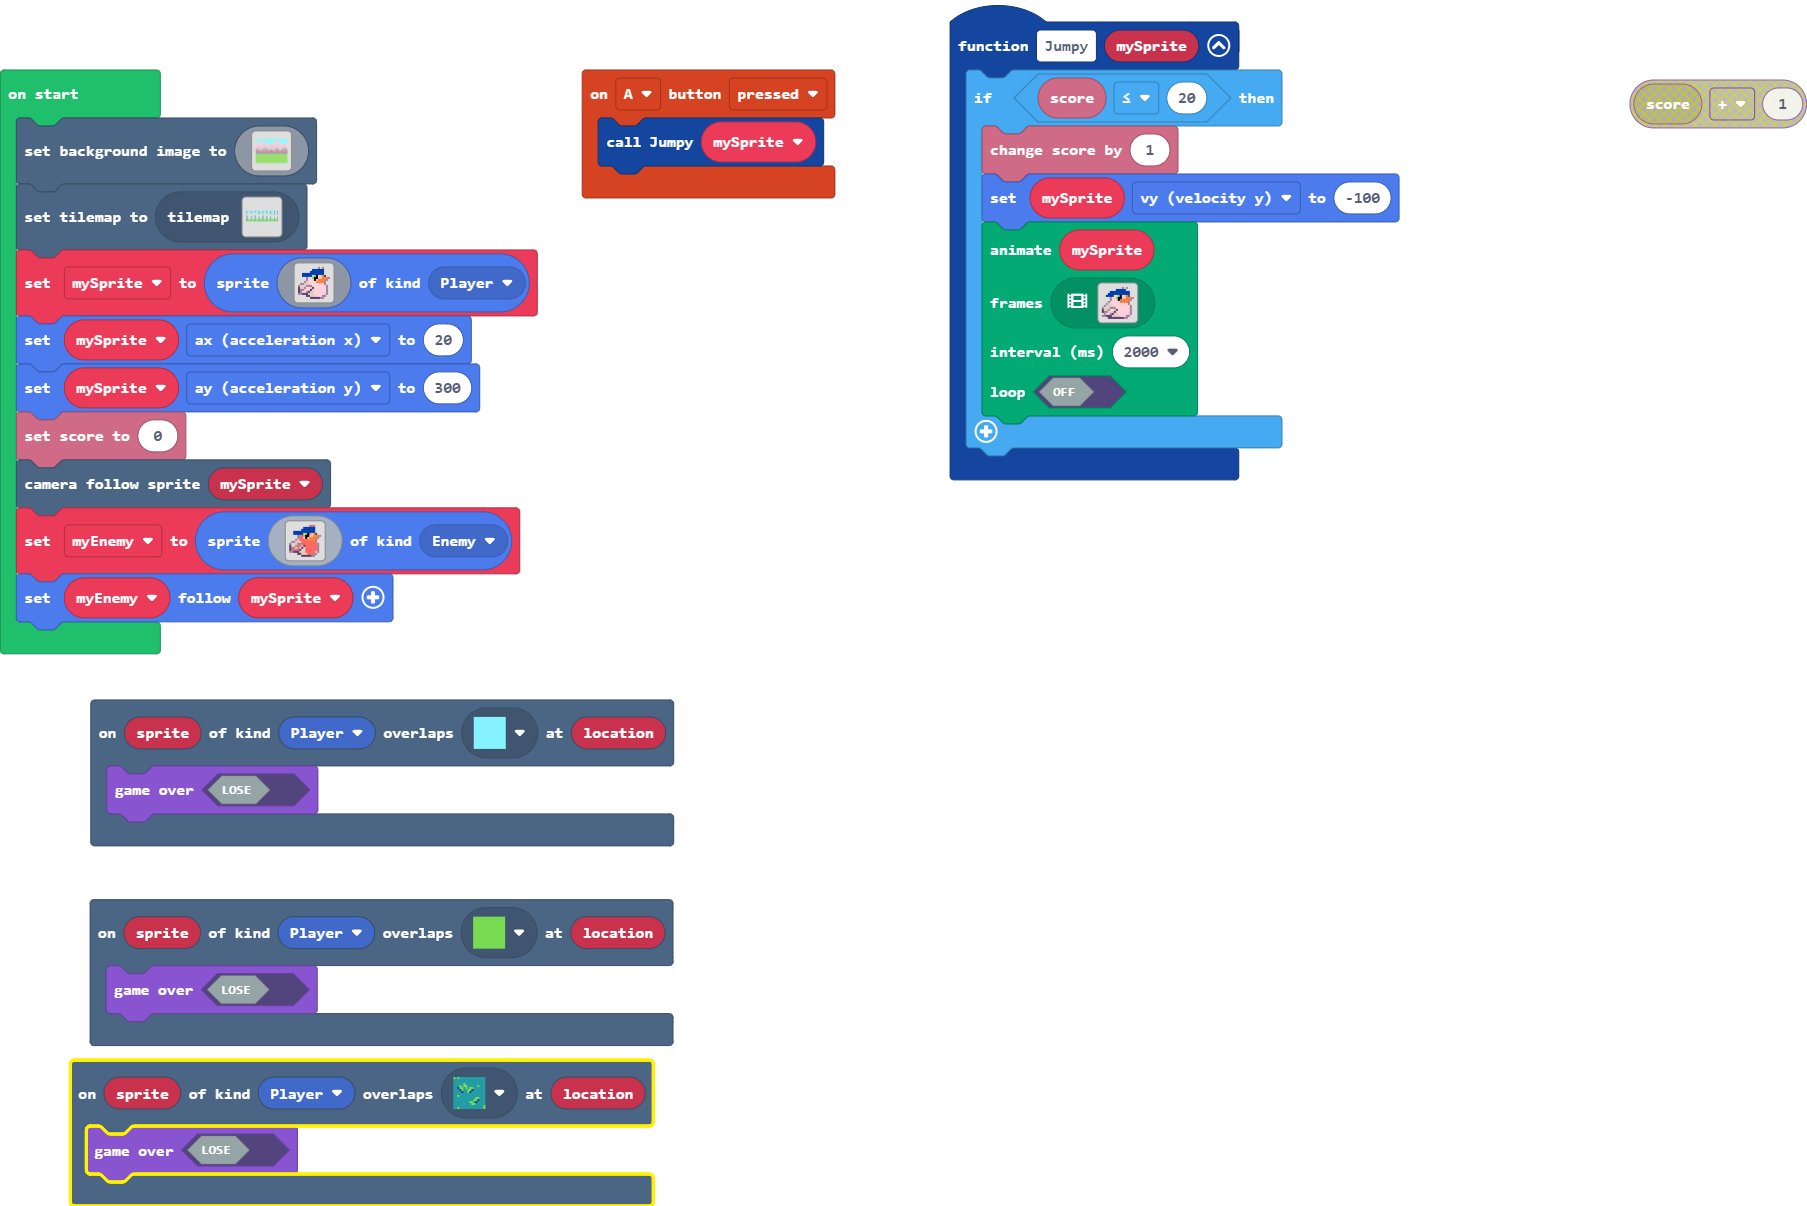
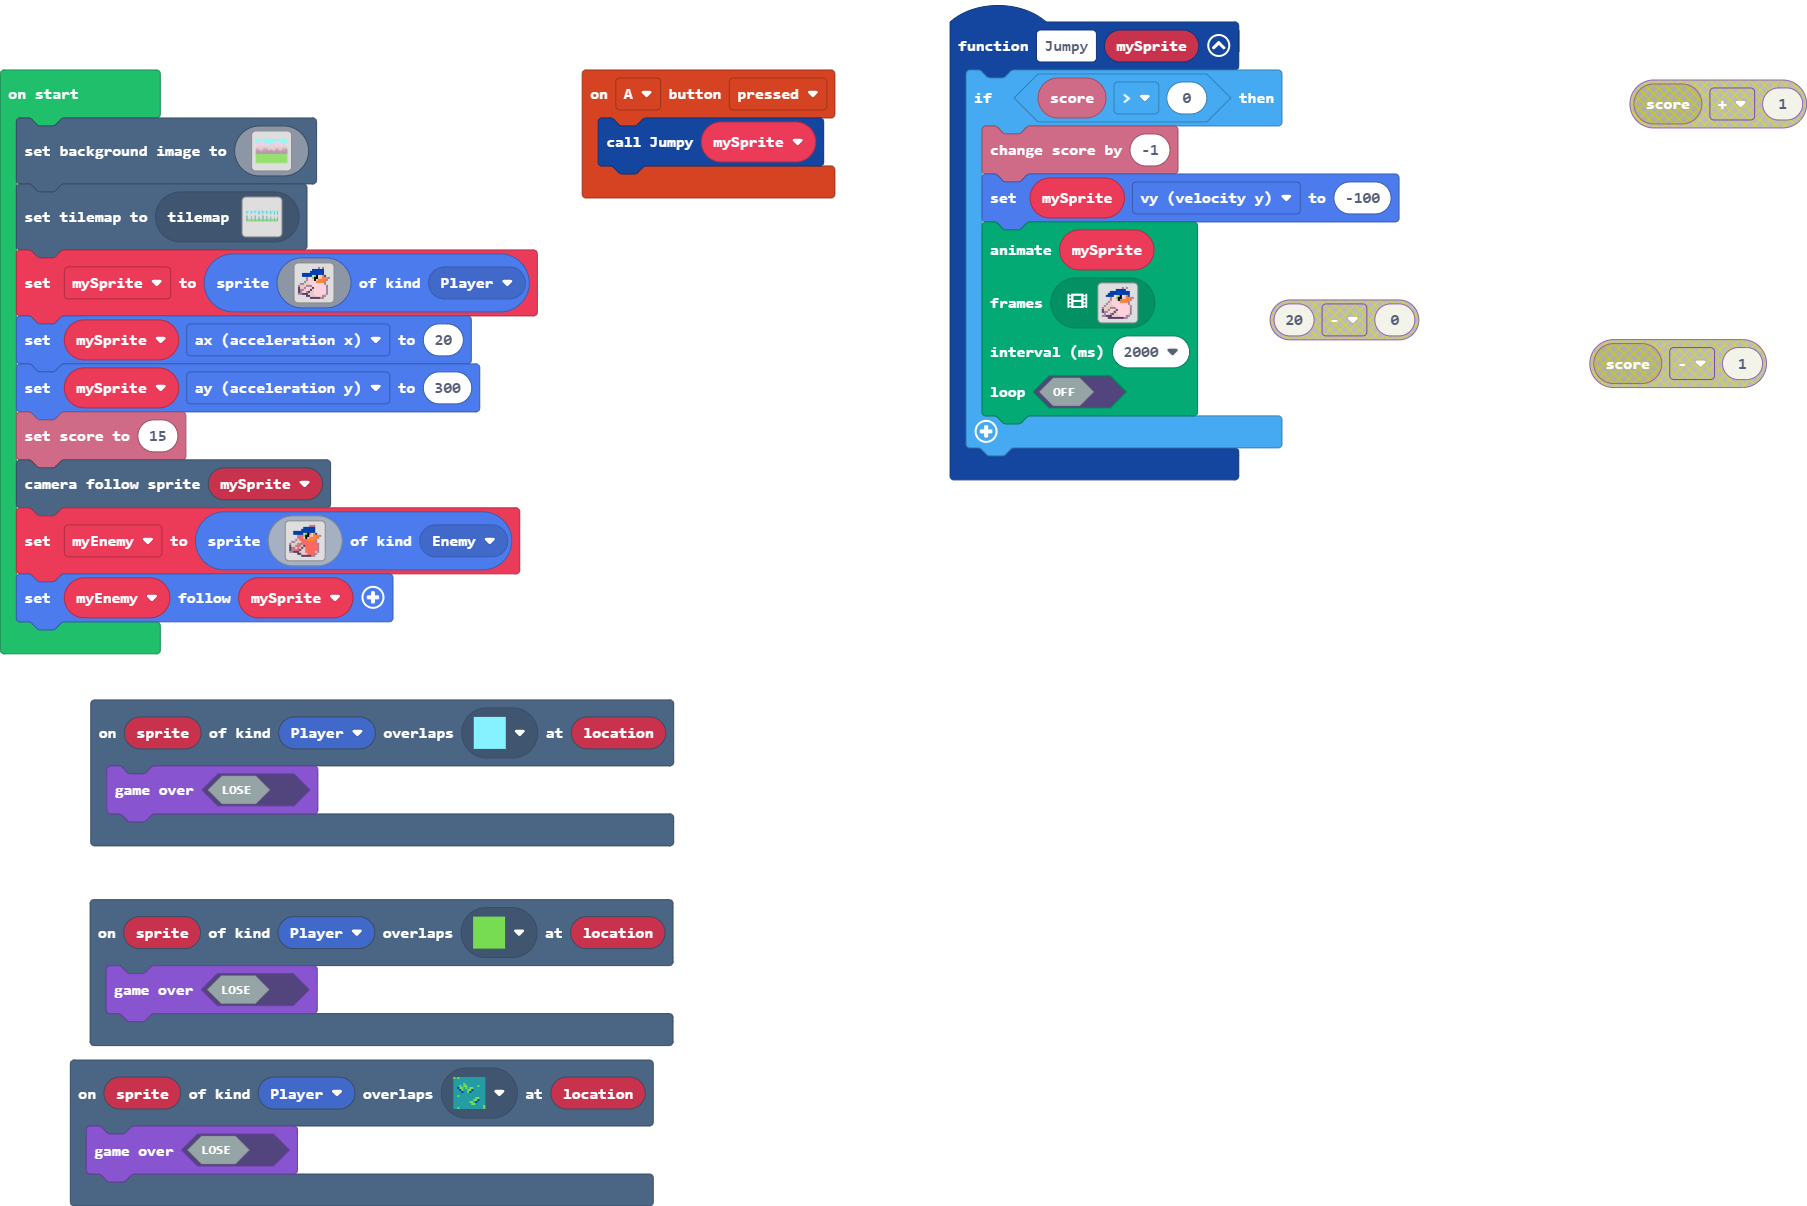
Update main.blocks, main.ts

diff --git a/main.ts b/main.ts
@@ -2,8 +2,8 @@ scene.onOverlapTile(SpriteKind.Player, assets.tile`myTile`, function (sprite, lo
     game.gameOver(false)
 })
 function Jumpy (mySprite: Sprite) {
-    if (info.score() <= 20) {
-        info.changeScoreBy(1)
+    if (info.score() > 0) {
+        info.changeScoreBy(-1)
         mySprite.vy = -100
         animation.runImageAnimation(
         mySprite,
@@ -217,7 +217,7 @@ mySprite = sprites.create(img`
     `, SpriteKind.Player)
 mySprite.ax = 20
 mySprite.ay = 300
-info.setScore(0)
+info.setScore(15)
 scene.cameraFollowSprite(mySprite)
 let myEnemy = sprites.create(img`
     . . . . . . . . . . b 2 b . . . 
